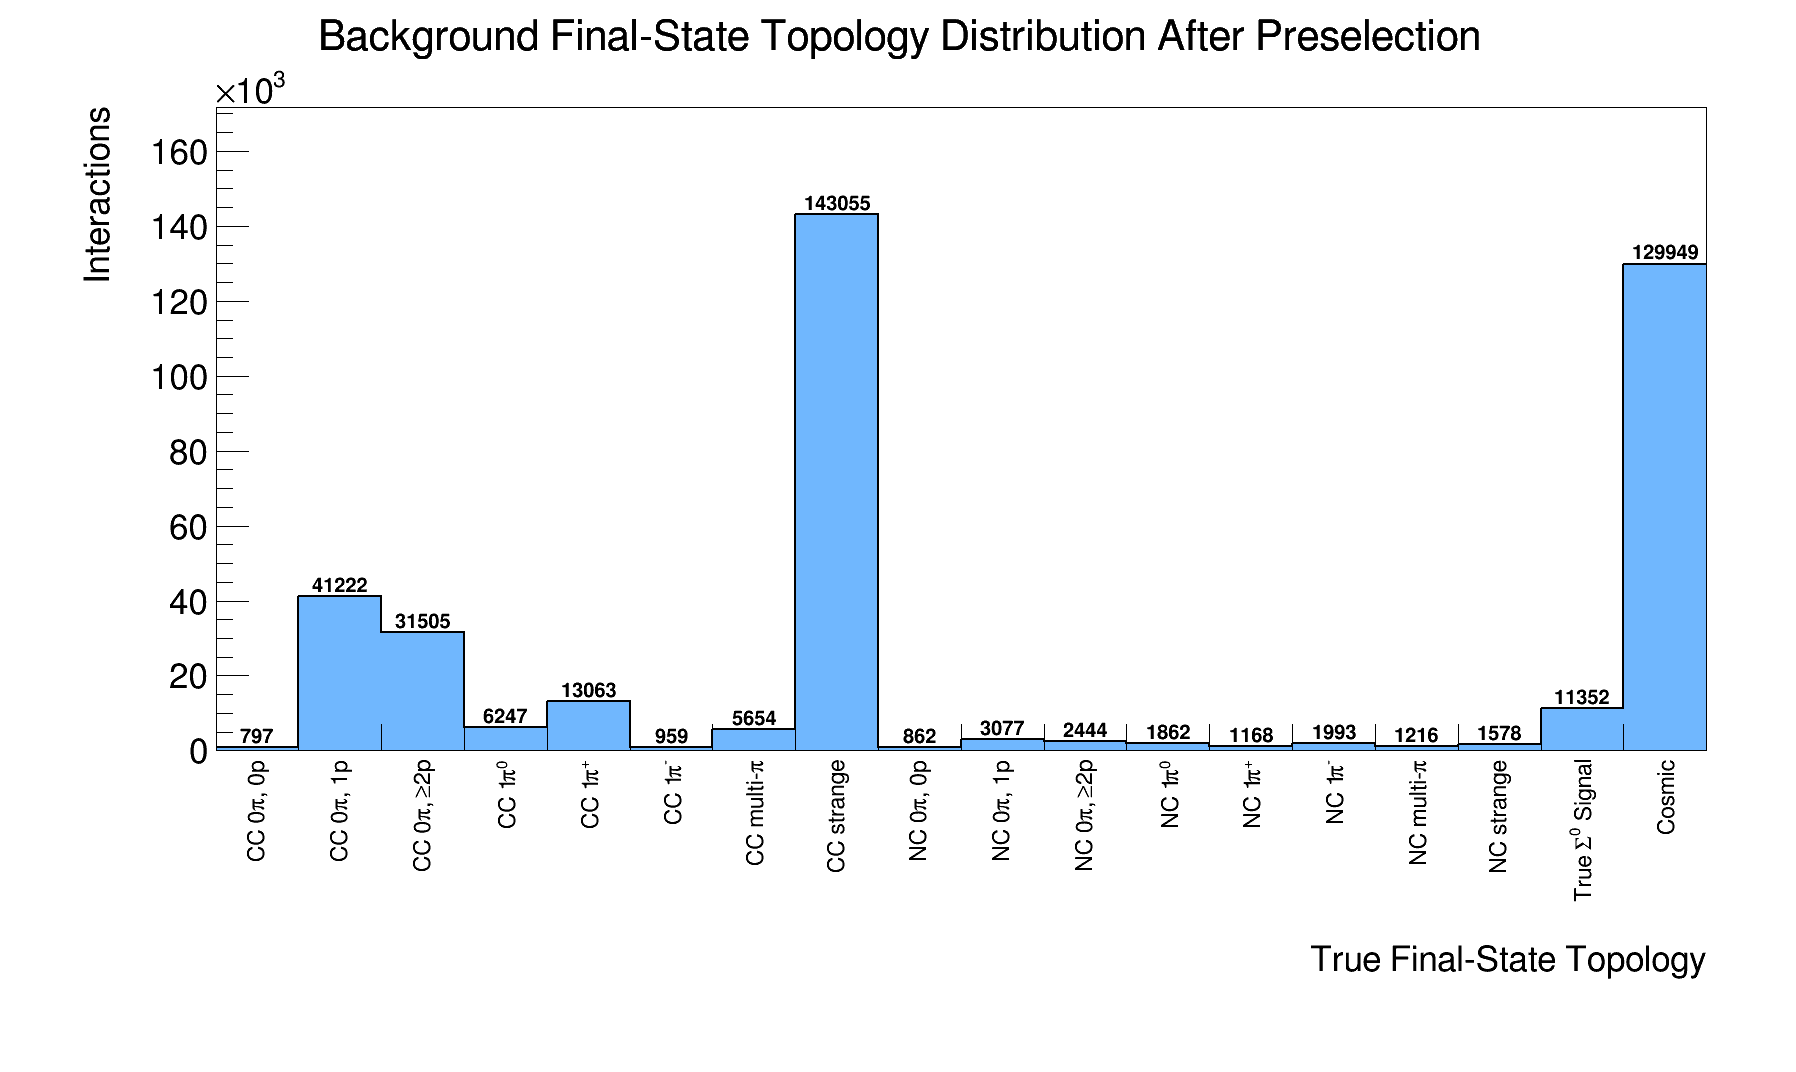
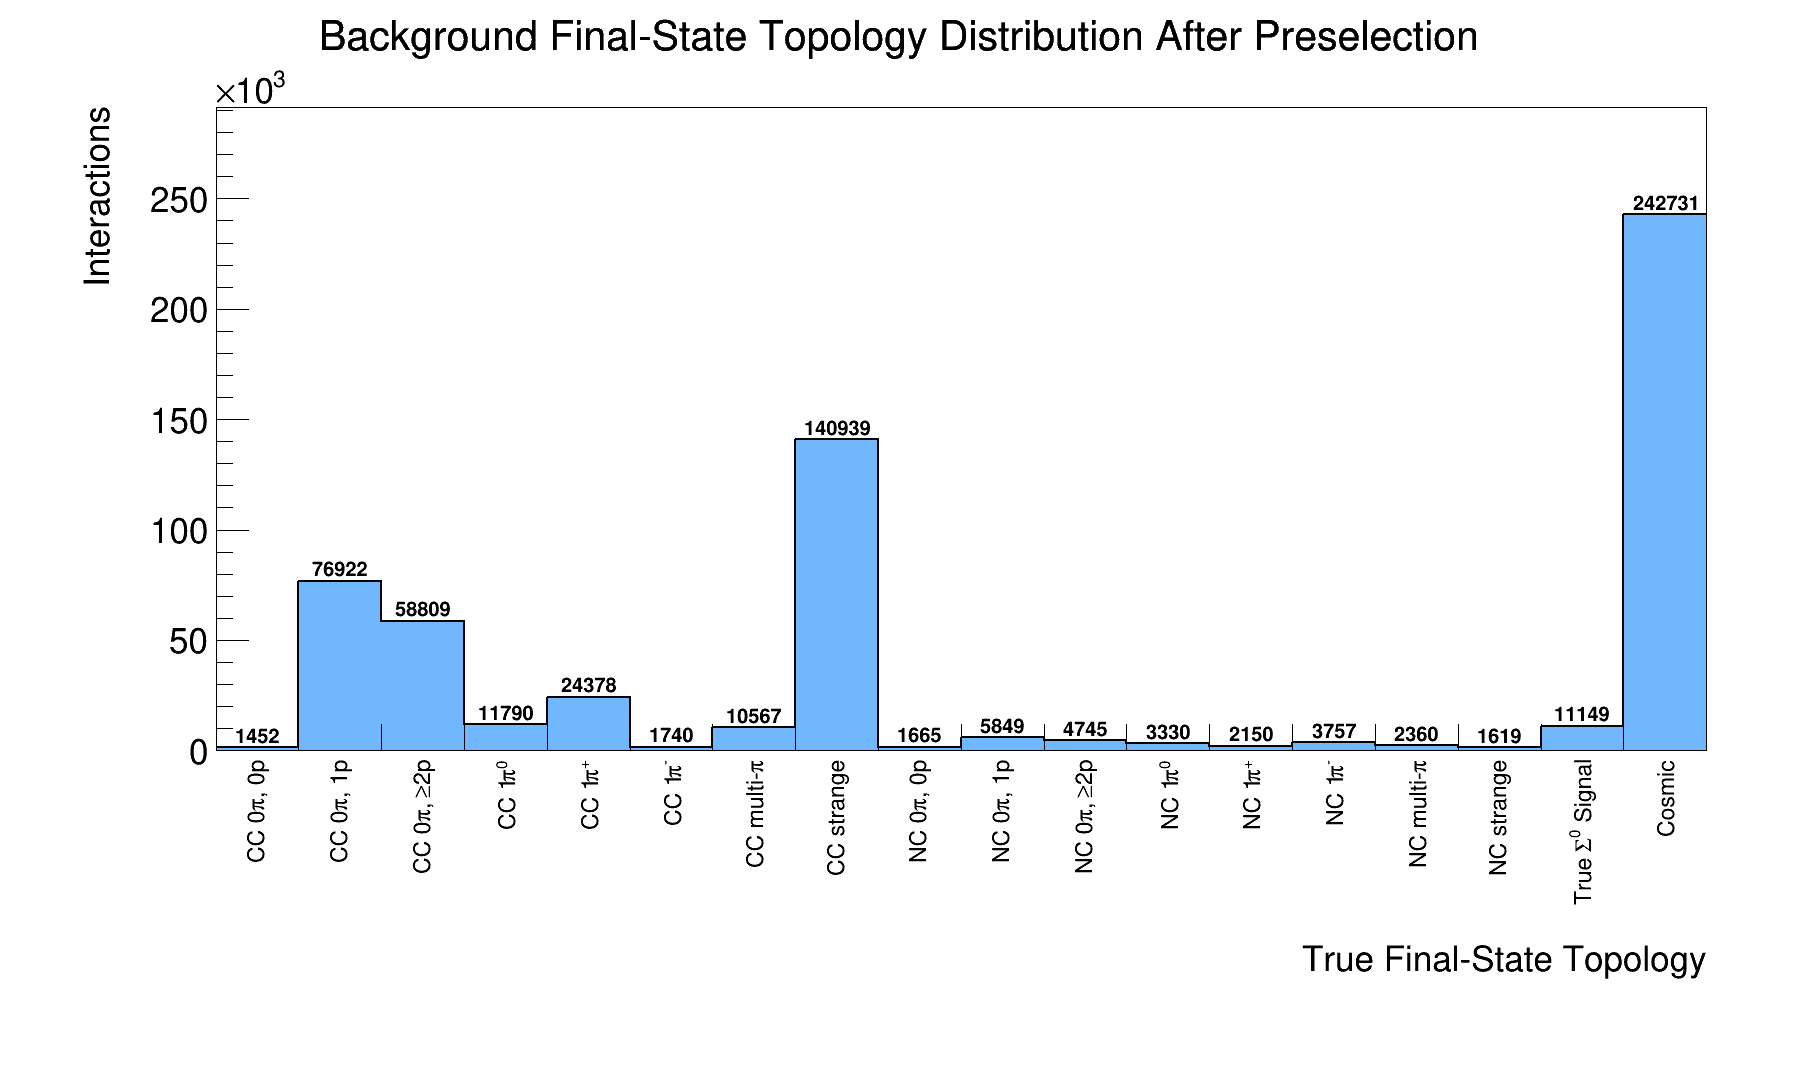
new bcfm, flashtime plots

diff --git a/output/eventClassification.C b/output/eventClassification.C
@@ -3,6 +3,11 @@
 #include <TH2.h>
 #include <TStyle.h>
 #include <TCanvas.h>
+#include "/data/sbnd/genie_hyp_weights/GenieHypXsecWeight.h"
+#include <cmath>
+#include <limits>
+#include <map>
+#include <stdexcept>
 
 enum eventType {
    Signal,
@@ -73,14 +78,25 @@ void eventClassification::Loop()
    }
 
    double potSBND = 1.0e21;
-   double hyperonScaleFactor = potSBND/totPotHyperons;
-   double prodScaleFactor = potSBND/totPotProd;
+   double hyperonPotFactor = potSBND/totPotHyperons;
+   double prodPotFactor = potSBND/totPotProd;
 
 
    std::cout<<"Total POT in Hyperon files = "<<totPotHyperons<<std::endl;
    std::cout<<"Total POT in Production files = "<<totPotProd<<std::endl;
-   std::cout<<"Scale factor for Hyperon files = "<<hyperonScaleFactor<<std::endl;
-   std::cout<<"Scale factor for Production files = "<<prodScaleFactor<<std::endl;
+   std::cout<<"Scale factor for Hyperon files = "<<hyperonPotFactor<<std::endl;
+   std::cout<<"Scale factor for Production files = "<<prodPotFactor<<std::endl;
+
+   // GENIE Hyperon Correction Weights
+
+   GenieHypXsecWeight::Weights W;
+
+   if (!W.load("/data/sbnd/genie_hyp_weights/hyp_xsec_weights_mu.root",
+      "/data/sbnd/genie_hyp_weights/hyp_xsec_weights_e.root"
+   ))
+   {
+      throw std::runtime_error("Failed to load GENIE hyperon weight tables");
+   }
 
    // Output file creation
 
@@ -137,7 +153,19 @@ void eventClassification::Loop()
    int nuSliceKey;
    int nTracks = 0;
    int nShowers = 0;
-   float eventWeight = 1.0;
+   float potWeight = 1.0;
+   float genieHypWeight = 1.0;
+   float eventWeight = potWeight * genieHypWeight;
+
+   signalTree->Branch("potWeight", &potWeight);
+   bkgTree->Branch("potWeight", &potWeight);
+   cosmicTree->Branch("potWeight", &potWeight);
+   outTree->Branch("potWeight", &potWeight);
+
+   signalTree->Branch("genieHypWeight", &genieHypWeight);
+   bkgTree->Branch("genieHypWeight", &genieHypWeight);
+   cosmicTree->Branch("genieHypWeight", &genieHypWeight);
+   outTree->Branch("genieHypWeight", &genieHypWeight);
 
    signalTree->Branch("eventWeight", &eventWeight);
    bkgTree->Branch("eventWeight", &eventWeight);
@@ -169,7 +197,7 @@ void eventClassification::Loop()
    cosmicTree->Branch("nShowers", &nShowers);
    outTree->Branch("nShowers", &nShowers);
 
-   float shortestDistTrueToRecoVtx = 0;
+   // Closest-vertex distance is local to each event (see below).
    int nSignalHyp = 0;
    int nSignalProd = 0;
    float nSignal = 0.0;
@@ -199,6 +227,15 @@ void eventClassification::Loop()
    float nGoodTopoBkg = 0.0;
    float nGoodTopoDirt = 0.0;
    float nGoodTopoCosmic = 0.0;
+
+   // GENIE hyperon-QE reweighting diagnostics (unweighted event counts).
+   std::map<int, long long> hypEligibleByPDG;
+   std::map<int, double> hypSumWeightsByPDG;
+   std::map<int, long long> hypPrimaryStatusCodes;
+   long long nHypWeightInvalidInputs = 0;
+   long long nHypWeightMultiplePrimaries = 0;
+   long long nHypWeightApplied = 0;
+   long long nHypWeightUnit = 0;
 
    int nBeamOrigin = 0;
    int nBeamOriginBkg = 0;
@@ -242,7 +279,9 @@ void eventClassification::Loop()
       nuSliceKey = -1;
       chosenTruthIdx = -1;
       sampleType = -1;
-      eventWeight = 1.0;
+      potWeight = 1.0f;
+      genieHypWeight = 1.0f;
+      eventWeight = 1.0f;
 
       // ---------------------------------------------------
       // Choose slice with highest nuScore (nuSlice) and use to assign event as cosmic or not
@@ -336,6 +375,7 @@ void eventClassification::Loop()
       TVector3 recoVtx(recoVtxX, recoVtxY, recoVtxZ);
       if(trueNuVtxX->empty()){continue;} // skip if there are no vertices (no MCTruth)
 
+      float shortestDistTrueToRecoVtx = std::numeric_limits<float>::infinity();
       for (int i = 0; i < trueNuVtxX->size(); i++){
          TVector3 trueVtx(trueNuVtxX->at(i), trueNuVtxY->at(i), trueNuVtxZ->at(i));
          float distTrueToRecoVtx = (trueVtx - recoVtx).Mag();
@@ -447,9 +487,75 @@ void eventClassification::Loop()
       bool hasCorrectLambdaDecay = hasLambdaProton && hasLambdaPionMinus;
       bool isSignal = isInTrueFV && hasPrimarySigma0 && hasPrimaryMuPlus && hasCorrectSigmaDecay && hasCorrectLambdaDecay && !isCosmic;
 
+      // ------------------------------------------------------------
+      // GENIE QEL-CC-LAMBDA cross-section correction.
+      // Uses the selected MCTruth and its generation-zero hyperon.
+      // With no GTruth::fHitNucP4 branch, E_rest ~= E_nu (nucleon at rest).
+      // This is a differential xsec weight, NOT a POT scale factor.
+      // ------------------------------------------------------------
+      int weightHyperonPDG = 0;
+      int nPrimaryWeightHyperons = 0;
+      const bool validTruthKinematics =
+          chosenTruthIdx >= 0 &&
+          trueNuPDG && chosenTruthIdx < static_cast<int>(trueNuPDG->size()) &&
+          trueCCNC && chosenTruthIdx < static_cast<int>(trueCCNC->size()) &&
+          trueIntMode && chosenTruthIdx < static_cast<int>(trueIntMode->size()) &&
+          trueNuEnergy && chosenTruthIdx < static_cast<int>(trueNuEnergy->size()) &&
+          trueQSqr && chosenTruthIdx < static_cast<int>(trueQSqr->size());
+
+      if (validTruthKinematics && !isCosmic &&
+          trueNuPDG->at(chosenTruthIdx) < 0 &&
+          trueCCNC->at(chosenTruthIdx) == 0 &&
+          trueIntMode->at(chosenTruthIdx) == 0 &&
+          truePDG && trueGeneration && trueMCTruthIndex &&
+          truePDG->size() == trueGeneration->size() &&
+          truePDG->size() == trueMCTruthIndex->size()) {
+
+         for (size_t p = 0; p < truePDG->size(); ++p) {
+            if (trueMCTruthIndex->at(p) != chosenTruthIdx ||
+                trueGeneration->at(p) != 0 ||
+                !GenieHypXsecWeight::isHyperonQE(truePDG->at(p))) continue;
+
+            ++nPrimaryWeightHyperons;
+            weightHyperonPDG = truePDG->at(p);
+            if (trueStatusCode && p < trueStatusCode->size())
+               ++hypPrimaryStatusCodes[trueStatusCode->at(p)];
+         }
+
+         if (nPrimaryWeightHyperons > 1) ++nHypWeightMultiplePrimaries;
+
+         // An ambiguous primary hyperon is left unweighted, not guessed.
+         if (nPrimaryWeightHyperons == 1) {
+            const double Enu = trueNuEnergy->at(chosenTruthIdx);
+            const double Q2 = trueQSqr->at(chosenTruthIdx);
+            if (std::isfinite(Enu) && Enu > 0.0 &&
+                std::isfinite(Q2) && Q2 >= 0.0) {
+               const double correction = W.weight(
+                   trueNuPDG->at(chosenTruthIdx), weightHyperonPDG, Enu, Q2);
+               if (std::isfinite(correction) && correction >= 0.0) {
+                  genieHypWeight = static_cast<float>(correction);
+                  ++nHypWeightApplied;
+                  ++hypEligibleByPDG[weightHyperonPDG];
+                  hypSumWeightsByPDG[weightHyperonPDG] += correction;
+               } else {
+                  ++nHypWeightInvalidInputs;
+               }
+            } else {
+               ++nHypWeightInvalidInputs;
+            }
+         }
+      }
+      if (genieHypWeight == 1.0f) ++nHypWeightUnit;
+
+      // Assign the POT factor according to the *input sample*, not
+      // the reconstructed category (important for dirt and cosmics).
+      potWeight = static_cast<float>(isHyperonSample ? hyperonPotFactor : prodPotFactor);
+      eventWeight = potWeight * genieHypWeight;
+
+
       if (isCosmic){ // Cosmics - no cosmics in filtered hyps, so should be fine like this
          sampleType = Cosmic;
-         eventWeight = prodScaleFactor;
+         // eventWeight already includes sample POT scaling and GENIE correction
          nCosmic += eventWeight;
          cosmicTree->Fill();
          /*if(isInTrueFV){
@@ -462,7 +568,7 @@ void eventClassification::Loop()
       else if (isHyperonSample && isSignal){ // Sigma0 Signal
          nSignalHyp++;
          sampleType = Signal;
-         eventWeight = hyperonScaleFactor; // scale hyperon events to 1e21 POT
+         // eventWeight already includes sample POT scaling and GENIE correction
          nSignal += eventWeight;
          signalTree->Fill();
          if(isInDentTrueFV){
@@ -473,7 +579,7 @@ void eventClassification::Loop()
       else if (isHyperonSample && isInTrueFV){ // Other hyperons
          nHyperonRaw++;
          sampleType = Hyperon;
-         eventWeight = hyperonScaleFactor; // scale hyperon events to 1e21 POT
+         // eventWeight already includes sample POT scaling and GENIE correction
          nHyperon += eventWeight;
          if(isInDentTrueFV){
             nHyperonInDentTrueFV += eventWeight;
@@ -482,14 +588,14 @@ void eventClassification::Loop()
       else if (isHyperonSample && !isInTrueFV){ // dirt in hyperon sample
          nDirtHyp++;
          sampleType = Dirt;
-         eventWeight = hyperonScaleFactor; // scale hyperon events to 1e21 POT
+         // eventWeight already includes sample POT scaling and GENIE correction
          nDirt += eventWeight; // add to total dirt count, scaled to 1e21 POT
       }
       else if (isProdSample && isSignal){ // Signal in beam background sample (very rare)
          continue; // exclude from analysis
        /* sampleType = Signal;
         nSignalProd++;
-        eventWeight = prodScaleFactor; // scale production events to 1e21 POT
+        // eventWeight already includes sample POT scaling and GENIE correction
         nSignal += eventWeight; // add to total signal count, scaled to 1e21 POT
         if(isInDentTrueFV){
             nSignalProdInDentTrueFV++;
@@ -499,7 +605,7 @@ void eventClassification::Loop()
       else if (isProdSample && isInTrueFV){ // Beam background
          nBkgRaw++;
          sampleType = Beam;
-         eventWeight = prodScaleFactor; // scale production events to 1e21 POT
+         // eventWeight already includes sample POT scaling and GENIE correction
          nBkg += eventWeight; // add to total bkg count, scaled to 1e21 POT
          bkgTree->Fill();
          if(isInDentTrueFV){
@@ -510,7 +616,7 @@ void eventClassification::Loop()
       else if (isProdSample && !isInTrueFV){ // Dirt - for now only flag dirt from bnb2026 sample (in future, include from filt hyp too, but needs diff weight)
          sampleType = Dirt; //unsure if this is necessary correct (or best way) to flag dirt, as I believe I may be able to grab dirt property from somewhere, similar to cosmic origin
          nDirtProd++;
-         eventWeight = prodScaleFactor; // scale production events to 1e21 POT
+         // eventWeight already includes sample POT scaling and GENIE correction
          nDirt += eventWeight; // add to total dirt count, scaled to 1e21 POT
       }
       else {continue;} 
@@ -605,11 +711,28 @@ void eventClassification::Loop()
    std::cout<<"# Dirt after 3+1 topo cut = "<<nGoodTopoDirt<<std::endl;
    std::cout<<"# Cosmic after 3+1 topo cut = "<<nGoodTopoCosmic<<std::endl;
    std::cout<<"================================================================"<<std::endl;
+   std::cout << "================ GENIE Hyperon QE Weights ================" << std::endl;
+   std::cout << "Weight prescription: E_rest = E_nu (nucleon-at-rest approximation)" << std::endl;
+   std::cout << "Events with an evaluated eligible weight: " << nHypWeightApplied << std::endl;
+   std::cout << "Events with unit weight: " << nHypWeightUnit << std::endl;
+   std::cout << "Events with ambiguous primary hyperons: " << nHypWeightMultiplePrimaries << std::endl;
+   std::cout << "Eligible events with invalid weight inputs: " << nHypWeightInvalidInputs << std::endl;
+   for (const auto& item : hypEligibleByPDG) {
+      const int pdg = item.first;
+      const double count = static_cast<double>(item.second);
+      std::cout << "  Primary hyperon " << pdg << ": " << item.second
+                << " events, mean GENIE weight = " << hypSumWeightsByPDG[pdg] / count
+                << std::endl;
+   }
+   std::cout << "Status codes of candidate generation-zero hyperons:" << std::endl;
+   for (const auto& item : hypPrimaryStatusCodes)
+      std::cout << "  status " << item.first << ": " << item.second << std::endl;
+   std::cout << "===========================================================" << std::endl;
    std::cout<<"========================== POT Info ======================================"<<std::endl;
    std::cout<<"Total POT in Hyperon files = "<<totPotHyperons<<std::endl;
    std::cout<<"Total POT in Production files = "<<totPotProd<<std::endl;
-   std::cout<<"Scale factor for Hyperon files = "<<hyperonScaleFactor<<std::endl;
-   std::cout<<"Scale factor for Production files = "<<prodScaleFactor<<std::endl;
+   std::cout<<"Scale factor for Hyperon files = "<<hyperonPotFactor<<std::endl;
+   std::cout<<"Scale factor for Production files = "<<prodPotFactor<<std::endl;
 
 
 }

diff --git a/output/backgroundPlots.C b/output/backgroundPlots.C
@@ -1267,9 +1267,15 @@ void backgroundPlots::Loop()
     TLegend* legFlashMatchScore = new TLegend(0.75, 0.65, 0.95, 0.90);
     legFlashMatchScore->SetBorderSize(0);
     legFlashMatchScore->SetFillStyle(0);
+    THStack* hsFlashTime = new THStack("hsFlashTime", "Barycenter Flash Time by Event Type");
+    TLegend* legFlashTime = new TLegend(0.75, 0.65, 0.95, 0.90);
+    legFlashTime->SetBorderSize(0);
+    legFlashTime->SetFillStyle(0);
 
     std::array<THStack*, nPlotCategories> hsFlashMatchScoreByCat;
     std::array<TLegend*, nPlotCategories> legFlashMatchScoreByCat;
+    std::array<THStack*, nPlotCategories> hsFlashTimeByCat;
+    std::array<TLegend*, nPlotCategories> legFlashTimeByCat;
 
     for (int iCat = 0; iCat < nPlotCategories; ++iCat)
     {
@@ -1277,12 +1283,18 @@ void backgroundPlots::Loop()
         
         hsFlashMatchScoreByCat.at(iCat) = new THStack(Form("hsFlashMatchScore_%d", iCat), "Placeholder"); //use Form()
         legFlashMatchScoreByCat.at(iCat) = new TLegend(0.75, 0.65, 0.95, 0.90);
+        hsFlashTimeByCat.at(iCat) = new THStack(Form("hsFlashTime_%d", iCat), "Placeholder");
+        legFlashTimeByCat.at(iCat) = new TLegend(0.75, 0.65, 0.95, 0.90);
         if(iCat == 1){
             for (int i = 0; i < 2; ++i){
                 hFlashMatchScoreByType.at(i)->SetFillColorAlpha(sampleTypeColors.at(i), 0.75);
                 hFlashMatchScoreByType.at(i)->SetLineColor(kBlack);
+                hFlashTimeByType.at(i)->SetFillColorAlpha(sampleTypeColors.at(i), 0.75);
+                hFlashTimeByType.at(i)->SetLineColor(kBlack);
                 hsFlashMatchScoreByCat.at(iCat)->Add(hFlashMatchScoreByType.at(i));
+                hsFlashTimeByCat.at(iCat)->Add(hFlashTimeByType.at(i));
                 legFlashMatchScoreByCat.at(iCat)->AddEntry(hFlashMatchScoreByType.at(i), eventTypeLabels.at(i).c_str(), "f");
+                legFlashTimeByCat.at(iCat)->AddEntry(hFlashTimeByType.at(i), eventTypeLabels.at(i).c_str(), "f");
             }
 
             TCanvas* cFlashMatchScore = new TCanvas("cFlashMatchScore", "FlashMatchScore", 1600, 1200);
@@ -1294,6 +1306,16 @@ void backgroundPlots::Loop()
             legFlashMatchScoreByCat.at(iCat)->Draw();
 
             cFlashMatchScore->Print(Form("plots/FlashMatchScore_%d.png", iCat));
+
+            TCanvas* cFlashTime = new TCanvas("cFlashTime", "FlashTime", 1600, 1200);
+            cFlashTime->SetRightMargin(0.05);
+
+            hsFlashTimeByCat.at(iCat)->Draw("HIST");
+            hsFlashTimeByCat.at(iCat)->GetXaxis()->SetTitle("FlashTime");
+            hsFlashTimeByCat.at(iCat)->GetYaxis()->SetTitle("Interactions");
+            legFlashTimeByCat.at(iCat)->Draw();
+
+            cFlashTime->Print(Form("plots/FlashTime_%d.png", iCat));
         }
 
         if(iCat == 2)
@@ -1304,6 +1326,11 @@ void backgroundPlots::Loop()
                 hFlashMatchScoreByType.at(i)->SetLineColor(kBlack);
                 hsFlashMatchScoreByCat.at(iCat)->Add(hFlashMatchScoreByType.at(i));
                 legFlashMatchScoreByCat.at(iCat)->AddEntry(hFlashMatchScoreByType.at(i), eventTypeLabels.at(i).c_str(), "f");
+
+                hFlashTimeByType.at(i)->SetFillColorAlpha(sampleTypeColors.at(i), 0.75);
+                hFlashTimeByType.at(i)->SetLineColor(kBlack);
+                hsFlashTimeByCat.at(iCat)->Add(hFlashTimeByType.at(i));
+                legFlashTimeByCat.at(iCat)->AddEntry(hFlashTimeByType.at(i), eventTypeLabels.at(i).c_str(), "f");
             } 
 
             TCanvas* cFlashMatchScore = new TCanvas("cFlashMatchScore", "FlashMatchScore", 1600, 1200);
@@ -1315,11 +1342,20 @@ void backgroundPlots::Loop()
             legFlashMatchScoreByCat.at(iCat)->Draw();
 
             cFlashMatchScore->Print(Form("plots/FlashMatchScore_%d.png", iCat));
+
+            TCanvas* cFlashTime = new TCanvas("cFlashTime", "FlashTime", 1600, 1200);
+            cFlashTime->SetRightMargin(0.05);
+            hsFlashTimeByCat.at(iCat)->Draw("HIST");
+            hsFlashTimeByCat.at(iCat)->GetXaxis()->SetTitle("FlashTime");
+            hsFlashTimeByCat.at(iCat)->GetYaxis()->SetTitle("Interactions");
+            legFlashTimeByCat.at(iCat)->Draw();
+
+            cFlashTime->Print(Form("plots/FlashTime_%d.png", iCat));
         }
 
     }
 
-        // ========================================================================
+    // ========================================================================
     // PFP Multiplicity
     // ========================================================================
 
